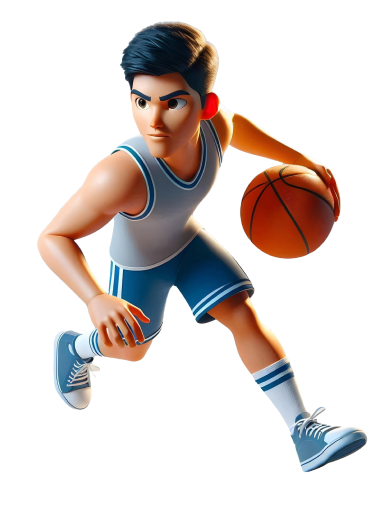
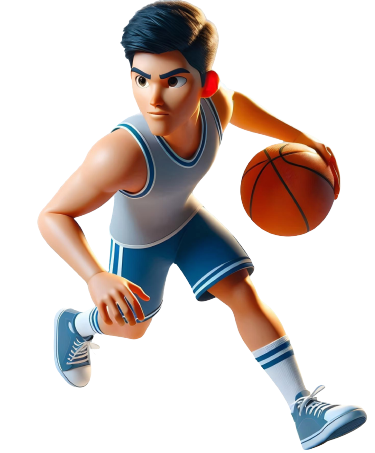
Adjust OnboardingComponent image height for improved layout

diff --git a/components/onboarding/OnboardingComponent.tsx b/components/onboarding/OnboardingComponent.tsx
@@ -35,7 +35,7 @@ const styles = StyleSheet.create({
     position: 'absolute',
     top: 0,
     width: '100%',
-    height: vh(60),
+    height: vh(55),
     resizeMode: 'cover',
   },
   title: {
